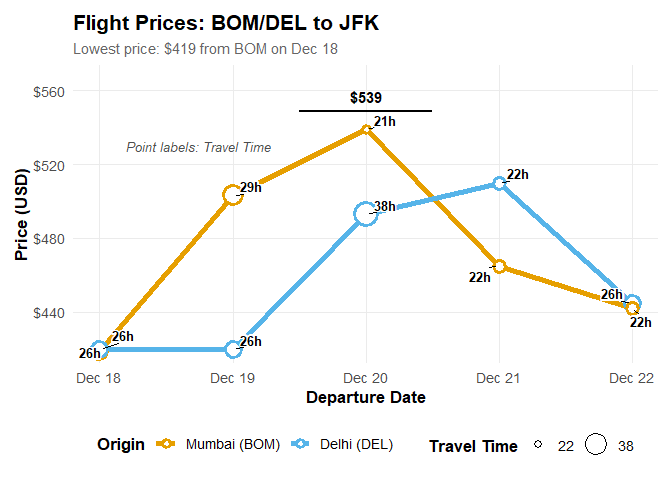
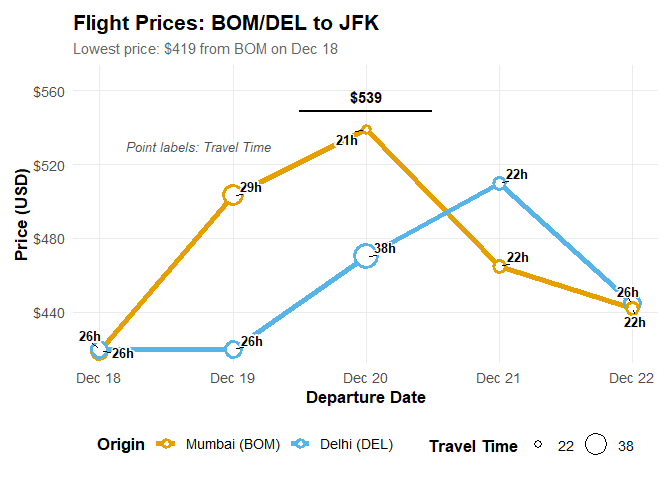
readme

diff --git a/README.md b/README.md
@@ -61,8 +61,8 @@ flights <- fa_fetch_flights(query)
 #>   Segment 1/2: NYC -> LON on 2025-12-20
 #>   [OK] Successfully parsed 7 flights
 #>   Segment 2/2: LON -> NYC on 2026-01-05
-#>   [OK] Successfully parsed 15 flights
-#>   [OK] Total flights retrieved: 22
+#>   [OK] Successfully parsed 16 flights
+#>   [OK] Total flights retrieved: 23
 
 # View the flight data
 head(flights$data[1:11]) |>
@@ -71,12 +71,12 @@ head(flights$data[1:11]) |>
 
 | departure_date | departure_time | arrival_date | arrival_time | origin | origin_city | destination | destination_city | airlines | travel_time | price |
 |:---|:---|:---|:---|:---|:---|:---|:---|:---|:---|---:|
-| 2025-12-20 | 22:40 | 2025-12-21 | 11:05 | EWR | Newark | LHR | London | UnitedLufthansa, Austrian, Brussels Airlines | 7 hr 25 min | 844 |
+| 2025-12-20 | 22:40 | 2025-12-21 | 11:05 | EWR | Newark | LHR | London | United, Lufthansa, Austrian, Brussels Airlines | 7 hr 25 min | 844 |
 | 2025-12-20 | 18:05 | 2025-12-21 | 06:00 | JFK | New York | LGW | London | Price graph | 6 hr 55 min | 859 |
-| 2025-12-20 | 19:45 | 2025-12-22 | 07:10 | LGA | New York | LHR | London | Air CanadaUnited | 30 hr 25 min | 354 |
+| 2025-12-20 | 19:45 | 2025-12-22 | 07:10 | LGA | New York | LHR | London | Air Canada, United | 30 hr 25 min | 354 |
 | 2025-12-20 | 19:20 | 2025-12-22 | 09:00 | JFK | New York | LGW | London | American, British Airways | 32 hr 40 min | 480 |
-| 2025-12-20 | 06:55 | 2025-12-21 | 07:10 | EWR | Newark | LHR | London | Air CanadaUnited | 19 hr 15 min | 728 |
-| 2025-12-20 | 15:04 | 2025-12-21 | 12:40 | LGA | New York | LCY | London | American, Aer Lingus, British AirwaysIberia, BA Cityflyer | 16 hr 36 min | 854 |
+| 2025-12-20 | 06:55 | 2025-12-21 | 07:10 | EWR | Newark | LHR | London | Air Canada, United | 19 hr 15 min | 728 |
+| 2025-12-20 | 15:04 | 2025-12-21 | 12:40 | LGA | New York | LCY | London | American, Aer Lingus, British Airways, Iberia, BA Cityflyer | 16 hr 36 min | 854 |
 
 The package supports multiple trip types:
 
@@ -103,31 +103,7 @@ queries <- fa_define_query_range(
 )
 
 # Fetch all flights
-flights <- fa_fetch_flights(queries)
-#> Scraping 2 objects...
-#> 
-#> [1/2]   Segment 1/5: BOM -> JFK on 2025-12-18
-#>   [OK] Successfully parsed 11 flights
-#>   Segment 2/5: BOM -> JFK on 2025-12-19
-#>   [OK] Successfully parsed 13 flights
-#>   Segment 3/5: BOM -> JFK on 2025-12-20
-#>   [OK] Successfully parsed 9 flights
-#>   Segment 4/5: BOM -> JFK on 2025-12-21
-#>   [OK] Successfully parsed 10 flights
-#>   Segment 5/5: BOM -> JFK on 2025-12-22
-#>   [OK] Successfully parsed 10 flights
-#>   [OK] Total flights retrieved: 53
-#> [2/2]   Segment 1/5: DEL -> JFK on 2025-12-18
-#>   [OK] Successfully parsed 9 flights
-#>   Segment 2/5: DEL -> JFK on 2025-12-19
-#>   [OK] Successfully parsed 9 flights
-#>   Segment 3/5: DEL -> JFK on 2025-12-20
-#>   [OK] Successfully parsed 10 flights
-#>   Segment 4/5: DEL -> JFK on 2025-12-21
-#>   [OK] Successfully parsed 9 flights
-#>   Segment 5/5: DEL -> JFK on 2025-12-22
-#>   [OK] Successfully parsed 8 flights
-#>   [OK] Total flights retrieved: 45
+flights <- fa_fetch_flights(queries, verbose = FALSE)
 
 # Create summary table (City × Date with prices)
 fa_summarize_prices(flights) |>
@@ -137,7 +113,7 @@ fa_summarize_prices(flights) |>
 | City | Origin | 2025-12-18 | 2025-12-19 | 2025-12-20 | 2025-12-21 | 2025-12-22 | Average_Price |
 |:---|:---|:---|:---|:---|:---|:---|:---|
 | Mumbai | BOM | \$419 | \$503 | \$539 | \$465 | \$442 | \$474 |
-| Delhi | DEL | \$420 | \$420 | \$493 | \$510 | \$445 | \$458 |
+| Delhi | DEL | \$420 | \$420 | \$470 | \$510 | \$445 | \$453 |
 | Best | Day | X |  |  |  |  |  |
 
 ``` r
@@ -156,10 +132,10 @@ fa_find_best_dates(
 
 | departure_date | departure_time | arrival_date | arrival_time | origin | price | num_stops | layover | travel_time | co2_emission_kg | airlines | n_routes |
 |:---|:---|:---|:---|:---|---:|---:|:---|:---|---:|:---|---:|
-| 2025-12-18 | 10:40 | 2025-12-18 | 19:30 | BOM | 442 | 1 | 1 hr LHR | 19 hr 20 min | 792 | Virgin AtlanticDelta | 1 |
+| 2025-12-18 | 10:40 | 2025-12-18 | 19:30 | BOM | 442 | 1 | 1 hr LHR | 19 hr 20 min | 792 | Virgin Atlantic, Delta | 1 |
 | 2025-12-19 | 19:10 | 2025-12-19 | 06:00 | BOM | 434 | 1 | 2 hr 40 min DEL | 21 hr 20 min | 991 | IndiGo, American | 1 |
 | 2025-12-19 | 20:55 | 2025-12-19 | 09:00 | DEL | 451 | 1 | 3 hr 30 min AUH | 22 hr 35 min | 843 | Etihad | 1 |
-| 2025-12-22 | 10:40 | 2025-12-22 | 22:55 | BOM | 442 | 1 | 4 hr 25 min LHR | 22 hr 45 min | 796 | Virgin AtlanticDelta | 1 |
+| 2025-12-22 | 10:40 | 2025-12-22 | 22:55 | BOM | 442 | 1 | 4 hr 25 min LHR | 22 hr 45 min | 796 | Virgin Atlantic, Delta | 1 |
 | 2025-12-23 | 20:55 | 2025-12-23 | 09:00 | DEL | 451 | 1 | 3 hr 30 min AUH | 22 hr 35 min | 802 | Etihad | 1 |
 
 ## Visualizing Price Data
